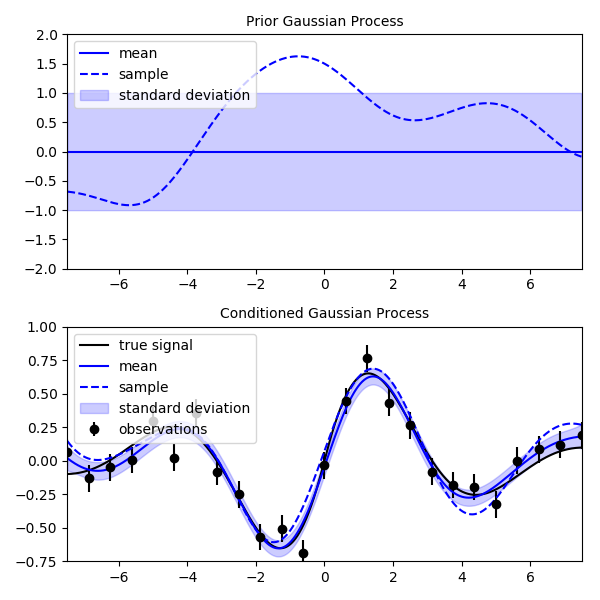
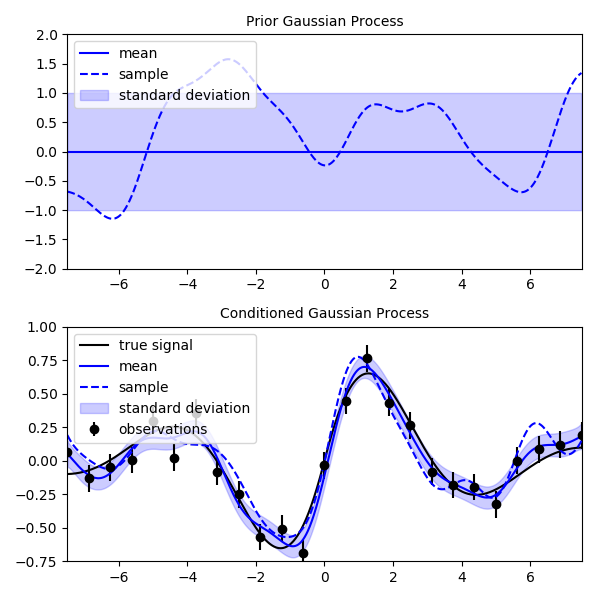
added more

diff --git a/rbf/gauss.py b/rbf/gauss.py
@@ -428,7 +428,7 @@ def _make_numerically_positive_definite(A):
     vals = np.linalg.eigvalsh(A)
     if not np.any(vals <= 0.0):
       # exit successfully
-      return
+      return A
     
     if itr == maxitr:
       # exit with error
@@ -437,8 +437,8 @@ def _make_numerically_positive_definite(A):
         % maxitr)
       
     eps = max(-2*vals.min(),min_eps)
-    # add diagonal components inplace 
-    A += eps*np.eye(n)
+    # add diagonal components to A. but NOT inplace 
+    A = A + eps*np.eye(n)
     itr += 1
 
 
@@ -455,14 +455,14 @@ def _cholesky(A,retry=True,**kwargs):
   if info > 0:  
     # info > 0 means that *A* is not positive definite
     if retry:
-      warnings.warn(
+      logger.info(
         'The leading minor of order %s is not positive definite, and '
         'the factorization could not be completed. This may be the '
         'result of numerical rounding error. Small values will be '
         'added to the diagonal and the decomposition will be '
         'attempted again.' % info)
     
-      _make_numerically_positive_definite(A)   
+      A = _make_numerically_positive_definite(A)   
       return _cholesky(A,retry=False,**kwargs)
     
     else:

diff --git a/docs/scripts/gauss.a.py b/docs/scripts/gauss.a.py
@@ -7,6 +7,7 @@ their distributions.
 import numpy as np
 import matplotlib.pyplot as plt
 import rbf
+import logging
 np.random.seed(1)
 
 y = np.linspace(-7.5,7.5,25) # observation points
@@ -18,11 +19,10 @@ d = np.exp(-0.3*np.abs(y))*np.sin(y) + np.random.normal(0.0,sigma)
 # form a prior Gaussian process which has a squared exponential basis 
 # function (rbf.basis.se), 0.0 for the mean, 1.0 for the standard 
 # deviation, and 2.0 for the characteristic length scale.
-gp = rbf.gauss.gpiso(rbf.basis.se,(0.0,1.0,2.0)) 
+gp = rbf.gauss.gpiso(rbf.basis.se,(0.0,1.0,1.0)) 
 sample = gp.sample(x[:,None]) # generate random sample
 mean,std = gp(x[:,None]) # find the mean and standard dev. at x
 gp_cond = gp.condition(y[:,None],d,sigma=sigma) # condition with data
-
 sample_cond = gp_cond.sample(x[:,None]) 
 mean_cond,std_cond = gp_cond(x[:,None])  
 
@@ -35,6 +35,7 @@ ax.set_title('Prior Gaussian Process',fontsize=10)
 ax.plot(x,mean,'b-',label='mean')
 ax.fill_between(x,mean-std,mean+std,color='b',
                 alpha=0.2,edgecolor='none',label='standard deviation')
+
 ax.plot(x,sample,'b--',label='sample')
 ax.set_xlim((-7.5,7.5))
 ax.set_ylim((-2.0,2.0))
